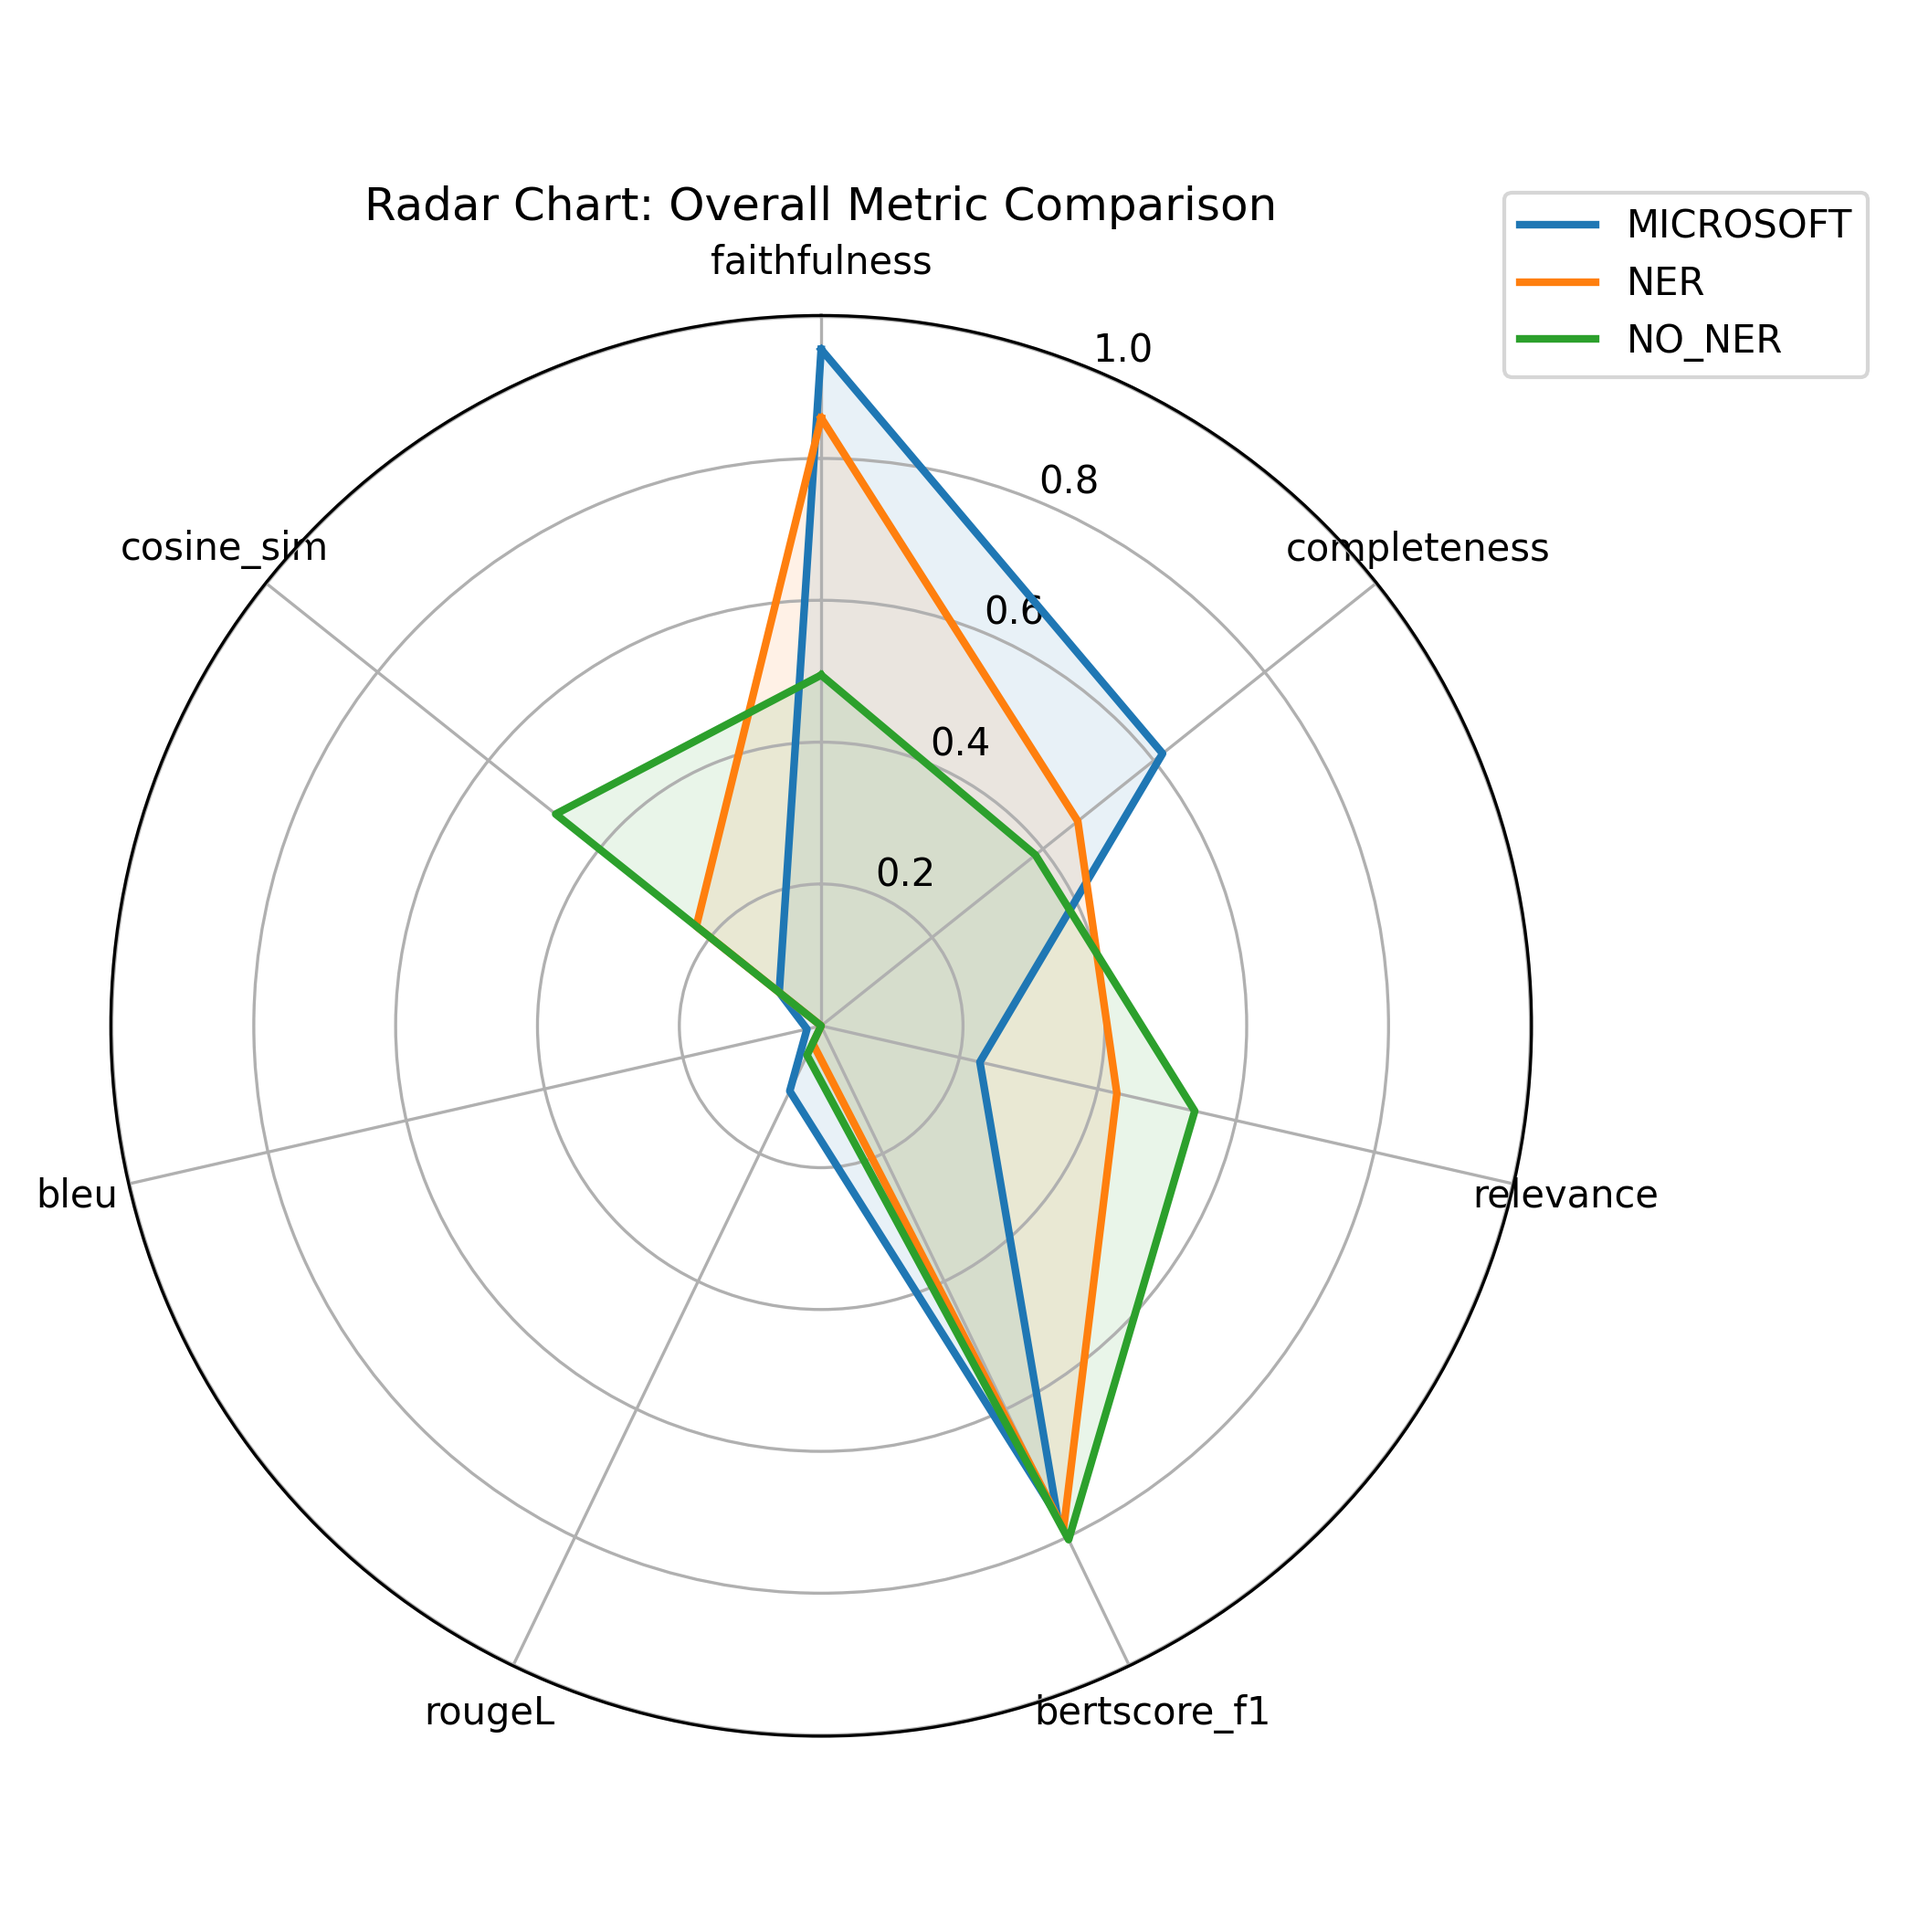
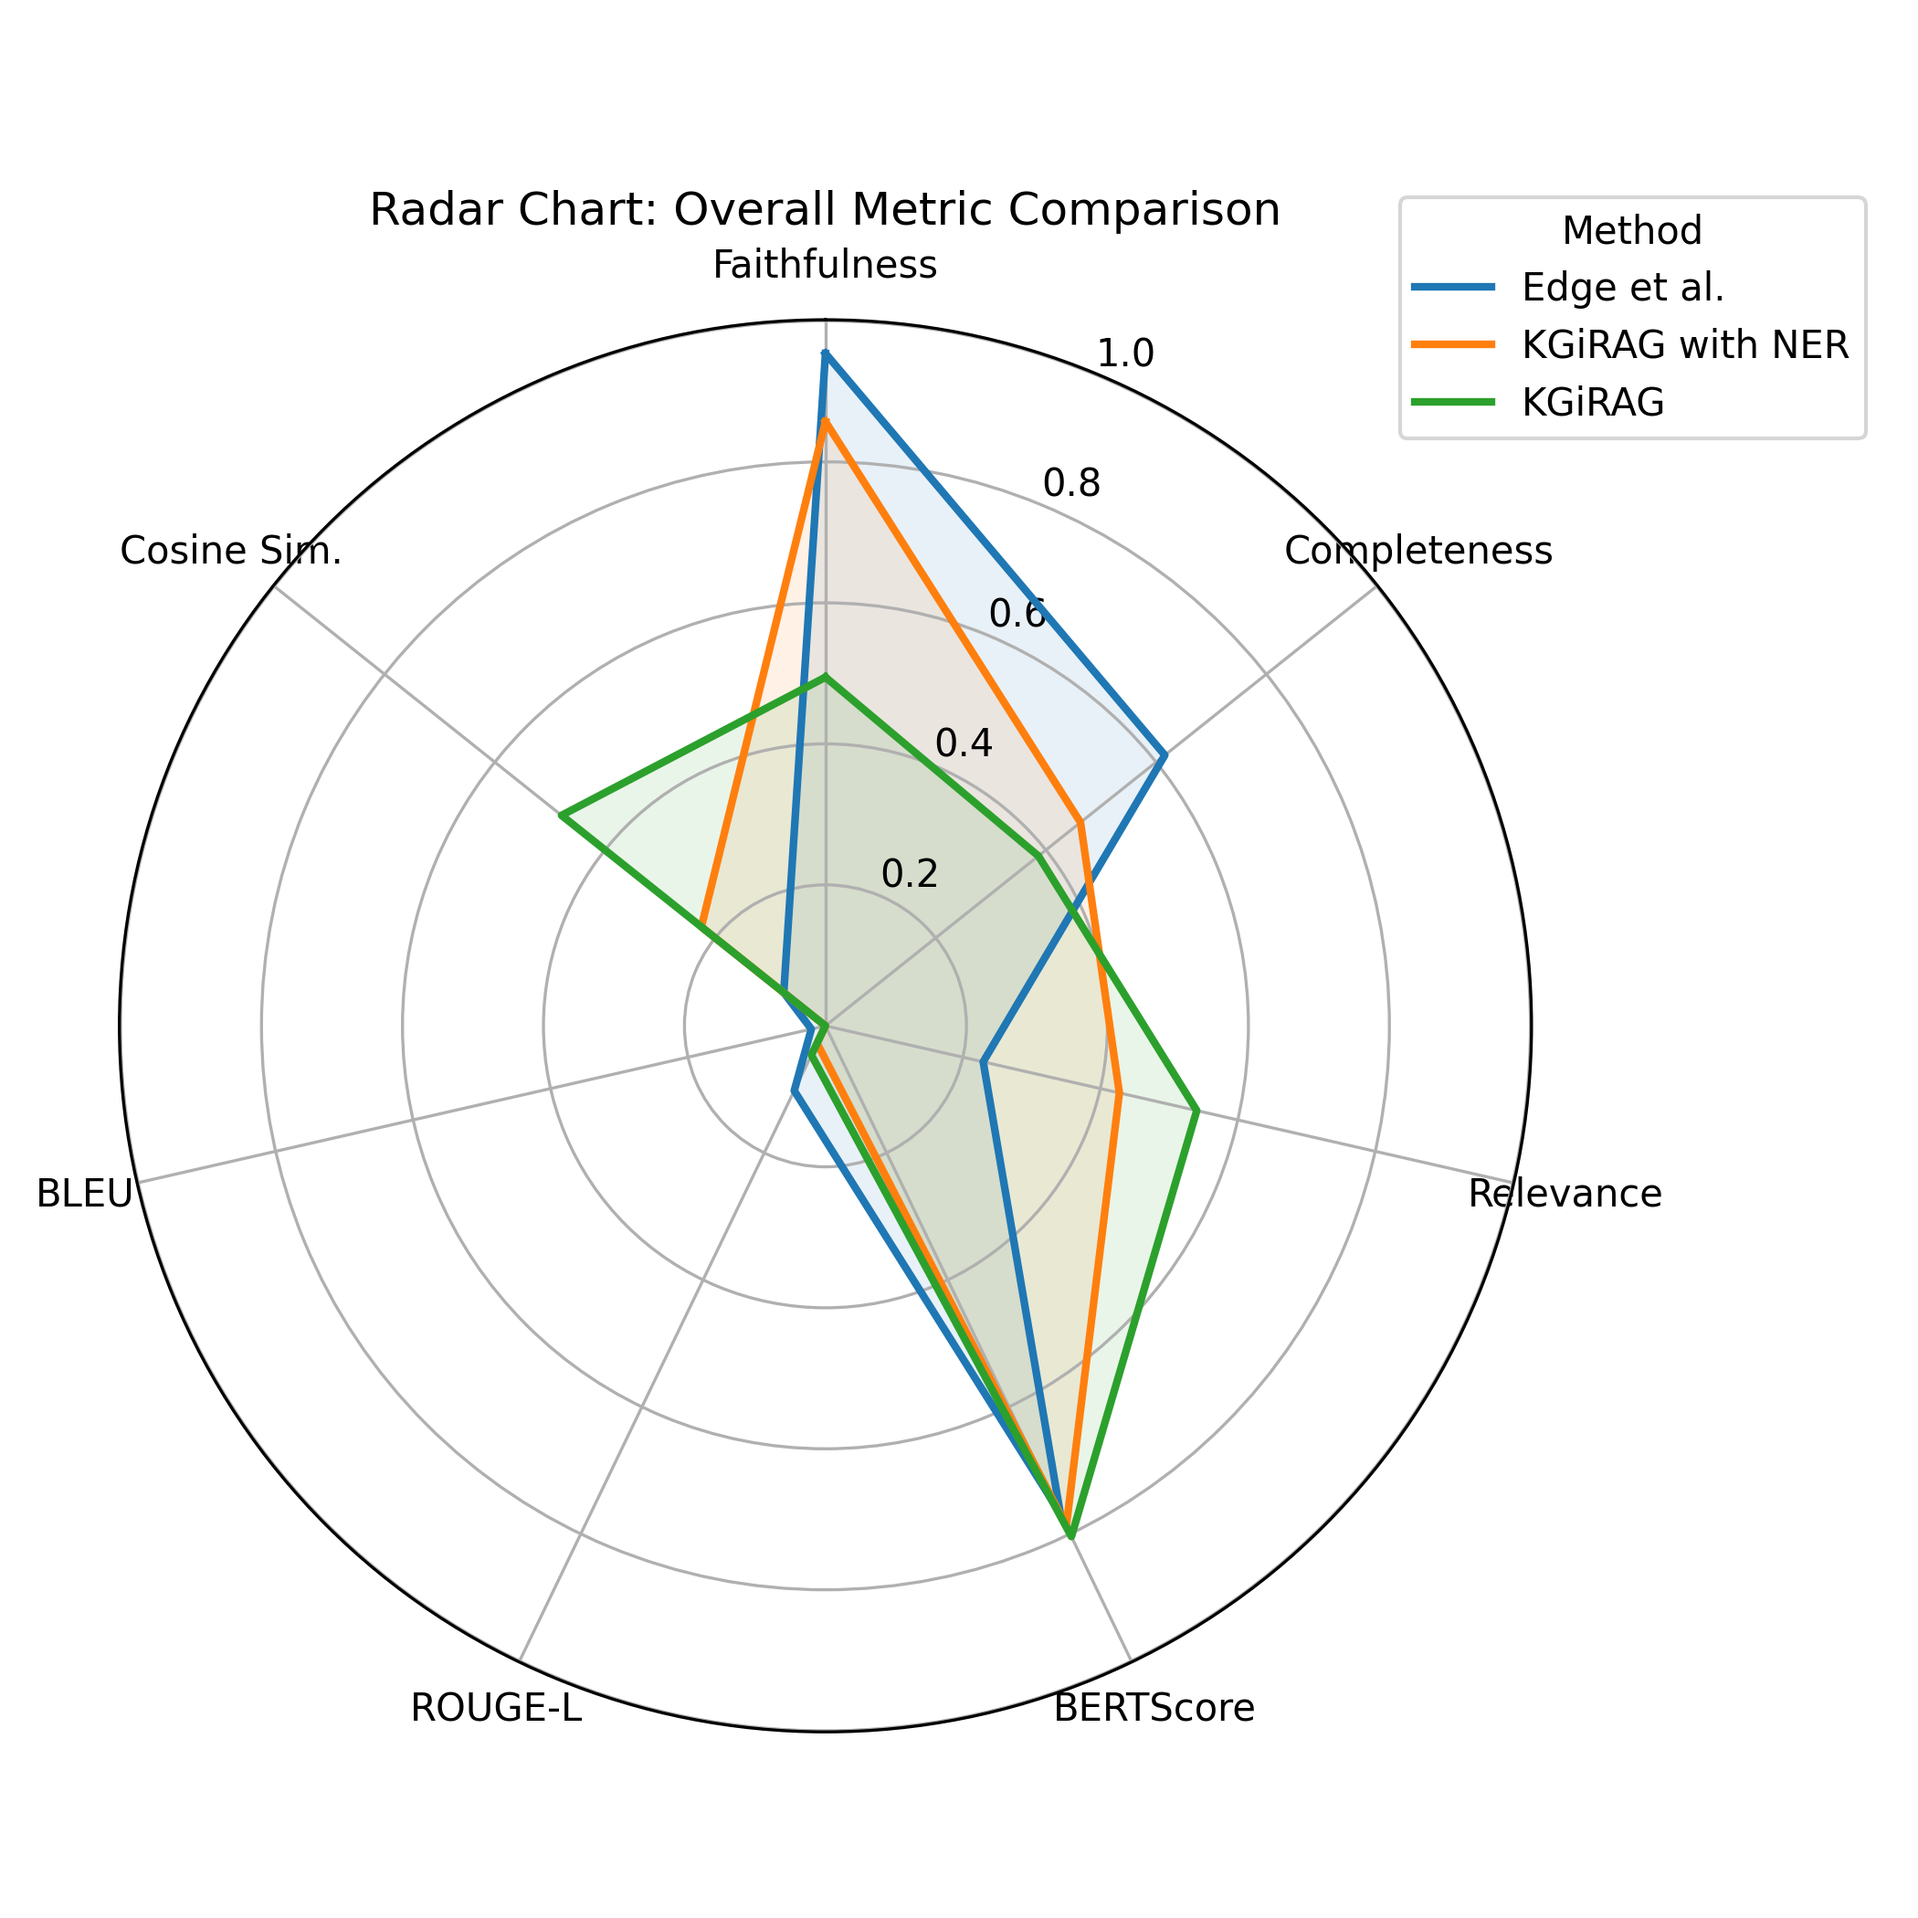
more stats

diff --git a/src/stats_generator/radar_and_all.py b/src/stats_generator/radar_and_all.py
@@ -1,0 +1,126 @@
+import pandas as pd
+import matplotlib.pyplot as plt
+import numpy as np
+import os
+
+# -----------------------------
+# Inputs
+# -----------------------------
+experiments = {
+    "NER": "../experiments/experiment_optimized_real_final_ner_500.csv",
+    "NO_NER": "../experiments/experiment_optimized_real_final_no_ner_500.csv",
+    "MICROSOFT": "../experiments/results_final_1_microsoft.csv",
+}
+
+metrics = [
+    "faithfulness", "completeness", "relevance",
+    "bertscore_f1", "rougeL", "bleu", "cosine_sim"
+]
+
+# Pretty labels for metrics (display-only)
+metric_label_map = {
+    "faithfulness": "Faithfulness",
+    "completeness": "Completeness",
+    "relevance": "Relevance",
+    "bertscore_f1": "BERTScore",
+    "rougeL": "ROUGE-L",
+    "bleu": "BLEU",
+    "cosine_sim": "Cosine Sim.",
+}
+
+# Pretty labels for experiment names (legend)
+experiment_label_map = {
+    "MICROSOFT": "Edge et al.",
+    "NER": "KGiRAG with NER",
+    "NO_NER": "KGiRAG",  # (requested: NO_NER -> "KGiRAG")
+}
+
+output_dir = "../statistics"
+os.makedirs(output_dir, exist_ok=True)
+
+# -----------------------------
+# Load & summarize
+# -----------------------------
+all_dfs = []
+summary_stats = {}
+
+for name, path in experiments.items():
+    try:
+        df = pd.read_csv(path, encoding="utf-8")
+    except UnicodeDecodeError:
+        df = pd.read_csv(path, encoding="latin1")
+
+    df["experiment"] = name
+    all_dfs.append(df)
+
+    stats = df[metrics].describe().T[["mean", "std", "min", "25%", "50%", "75%", "max"]]
+    summary_stats[name] = stats
+
+combined_df = pd.concat(all_dfs, ignore_index=True)
+summary_df = pd.concat(summary_stats, axis=1)
+summary_df.columns = pd.MultiIndex.from_tuples(summary_df.columns)
+summary_df.to_csv(os.path.join(output_dir, "summary_statistics.csv"))
+print("📊 Summary statistics saved.")
+
+# -----------------------------
+# Prepare means
+# -----------------------------
+mean_values = combined_df.groupby("experiment")[metrics].mean().T  # rows: metrics, cols: experiments
+
+# -----------------------------
+# Plot 1: Average Metric Comparison (Bar Chart)
+# -----------------------------
+plt.figure(figsize=(12, 7))
+ax = mean_values.plot(kind="bar", figsize=(12, 7))
+
+# X tick labels -> pretty metric names
+ax.set_xticklabels([metric_label_map.get(m, m) for m in mean_values.index], rotation=45, ha="right")
+
+ax.set_title("Average Metric Comparison per Experiment")
+ax.set_ylabel("Average Score")
+ax.grid(axis="y", linestyle="--", alpha=0.5)
+
+# Legend -> map experiment names to pretty names
+current_labels = [t.get_text() for t in ax.legend_.texts]
+pretty_labels = [experiment_label_map.get(l, l) for l in current_labels]
+ax.legend(pretty_labels, title="Method", loc="best")
+
+plt.tight_layout()
+plt.savefig(os.path.join(output_dir, "bar_means.png"), dpi=300)
+plt.close()
+
+# -----------------------------
+# Plot 2: Radar Chart (Overall Metric Comparison)
+# -----------------------------
+labels = list(mean_values.index)
+pretty_labels = [metric_label_map.get(m, m) for m in labels]
+
+num_vars = len(labels)
+angles = np.linspace(0, 2 * np.pi, num_vars, endpoint=False).tolist()
+angles += angles[:1]  # close the loop
+
+plt.figure(figsize=(7, 7))
+ax = plt.subplot(111, polar=True)
+
+# Choose a stable color cycle (matplotlib default) by not specifying colors explicitly
+# Plot each experiment
+exp_order = list(mean_values.columns)
+for exp in exp_order:
+    values = mean_values[exp].tolist()
+    values += values[:1]  # close the loop
+    ax.plot(angles, values, linewidth=2, label=experiment_label_map.get(exp, exp))
+    ax.fill(angles, values, alpha=0.1)
+
+ax.set_theta_offset(np.pi / 2)
+ax.set_theta_direction(-1)
+ax.set_xticks(angles[:-1])
+ax.set_xticklabels(pretty_labels)
+
+ax.set_title("Radar Chart: Overall Metric Comparison")
+ax.legend(title="Method", loc="upper right", bbox_to_anchor=(1.25, 1.1))
+
+plt.tight_layout()
+plt.savefig(os.path.join(output_dir, "radar_overall.png"), dpi=300)
+plt.close()
+
+print(f"✅ Saved plots (bar_means.png, radar_overall.png) in '{output_dir}'")

diff --git a/src/stats_generator/violin.py b/src/stats_generator/violin.py
@@ -1,0 +1,73 @@
+import os
+import pandas as pd
+import matplotlib.pyplot as plt
+
+# === Configuration ===
+INPUT_FILE = "../experiments/experiment_optimized_real_final_ner_500.csv"
+OUTPUT_DIR = "../statistics"
+OUTPUT_FILE = "violin_ner.png"
+
+# Metrics present in your CSV
+METRICS = [
+    "faithfulness",
+    "completeness",
+    "relevance",
+    "BERTScore",
+    "rougeL",
+]
+
+def main():
+    # Load
+    df = pd.read_csv(INPUT_FILE)
+    df = df.rename(columns={"bertscore_f1": "BERTScore"})
+
+    # Collect clean arrays per metric
+    data = []
+    labels = []
+    for m in METRICS:
+        if m in df.columns:
+            col = pd.to_numeric(df[m], errors="coerce").dropna()
+            if len(col) > 0:
+                data.append(col.values)
+                labels.append(m)
+
+    if not data:
+        raise ValueError("No valid metric columns found with numeric data.")
+
+    # Figure
+    os.makedirs(OUTPUT_DIR, exist_ok=True)
+    plt.figure(figsize=(14, 7))
+
+    # One violin plot with all metrics side-by-side
+    parts = plt.violinplot(
+        data,
+        showmeans=False,
+        showmedians=True,   # highlight medians
+        showextrema=False
+    )
+
+    # Optional: aesthetics (neutral, readable)
+    for pc in parts['bodies']:
+        pc.set_edgecolor('black')
+        pc.set_alpha(0.7)
+
+    # Add median markers styling if present
+    if 'cmedians' in parts:
+        parts['cmedians'].set_linewidth(2)
+
+    # Axes labels & ticks
+    plt.xticks(range(1, len(labels) + 1), labels, rotation=25, ha="right")
+    plt.ylabel("Score")
+    plt.title("Score density distribution evaluation metrics for KGiRAG with NER")
+
+    # Grid & layout
+    plt.grid(axis="y", linestyle="--", alpha=0.4)
+    plt.tight_layout()
+
+    # Save
+    out_path = os.path.join(OUTPUT_DIR, OUTPUT_FILE)
+    plt.savefig(out_path, dpi=300)
+
+
+if __name__ == "__main__":
+    main()

diff --git a/src/stats_generator/iteration_pie.py b/src/stats_generator/iteration_pie.py
@@ -3,9 +3,9 @@ import matplotlib.pyplot as plt
 import os
 
 # === Configuration ===
-INPUT_FILE = "experiments/experiment_optimized_real_final_ner_500.csv"
+INPUT_FILE = "../experiments/experiment_optimized_real_final_ner_500.csv"
 OUTPUT_FILE = "pie_iteration_ner.png"
-OUTPUT_DIR = "statistics"
+OUTPUT_DIR = "../statistics"
 
 # === Load Data ===
 df = pd.read_csv(INPUT_FILE)
